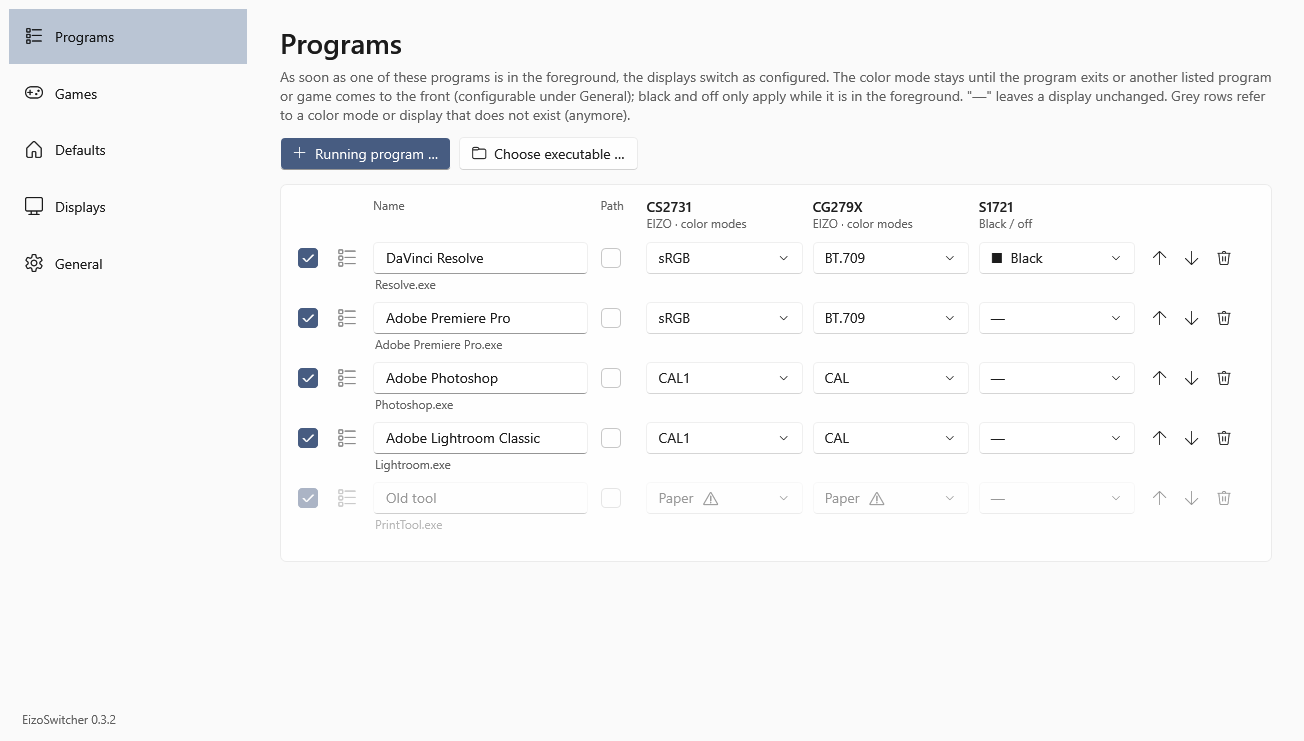
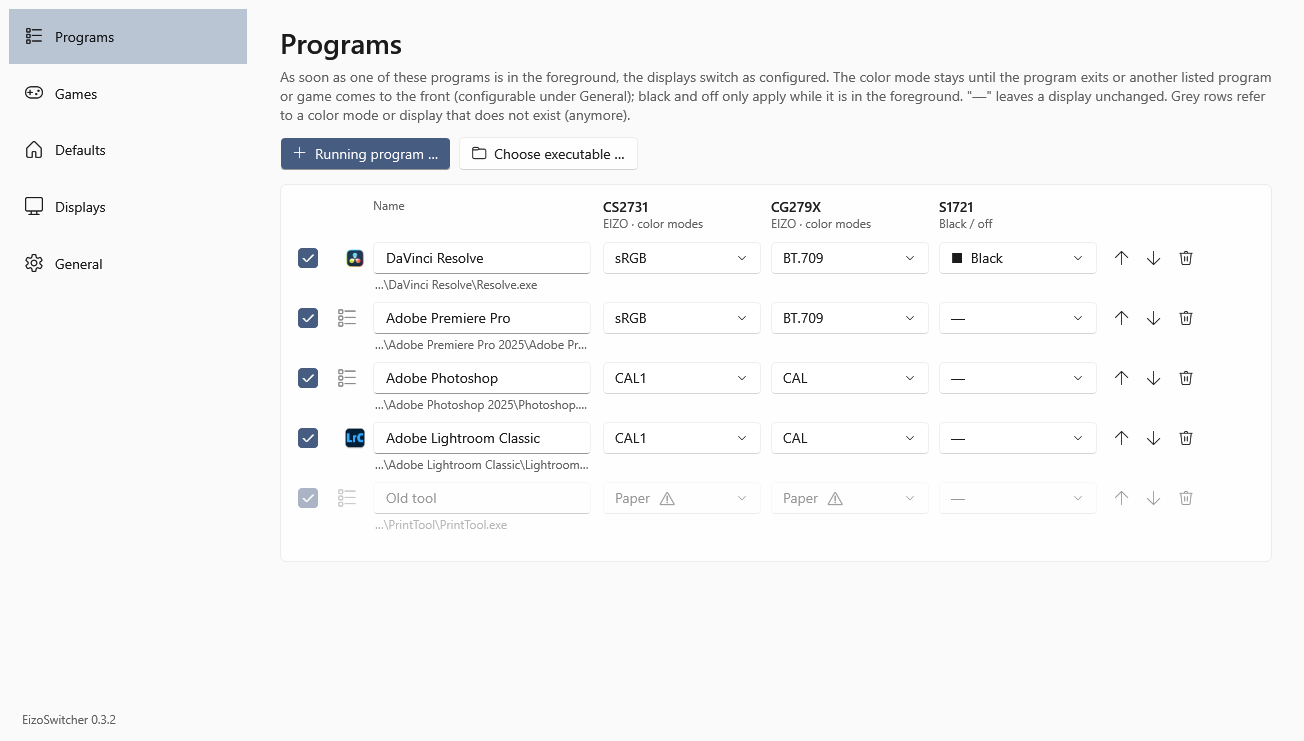
Rules always match the exact executable
The "Path" checkbox is gone: a rule now always belongs to exactly the
executable it was created for, so two versions of a program side by side
are simply two rules (adding the second one no longer jumps to the first).
The folder is shown under the rule name.

Matching by name remains for rules without a path, for processes whose
path cannot be read (elevated ones) and for rules whose program has moved,
e.g. after an update into a new versioned folder (Store apps) - the latter
only when no rule matches the path exactly.

diff --git a/src/EizoSwitcher/UI/SettingsWindow.cs b/src/EizoSwitcher/UI/SettingsWindow.cs
@@ -20,12 +20,11 @@ internal sealed class SettingsWindow : Window
         public required Border View;
         public required CheckBox Enabled;
         public required System.Windows.Controls.TextBox Name;
-        public required CheckBox MatchPath;
         public required Dictionary<string, ComboBox> Actions;
     }
 
     // name and display columns shrink down to their minimum before the table scrolls sideways
-    private const double NameWidth = 230, NameMin = 140, PathWidth = 46, ColWidth = 158, ColMin = 112, ColGap = 10;
+    private const double NameWidth = 230, NameMin = 140, ColWidth = 158, ColMin = 112, ColGap = 10;
 
     private readonly DisplayService displays_;
     private readonly GameDetector games_;
@@ -192,15 +191,12 @@ internal sealed class SettingsWindow : Window
         DefineColumns(header);
         void H(int col, UIElement e) { Grid.SetColumn(e, col); header.Children.Add(e); }
         H(2, Ui.Caption(L.T("Name", "Name"), false));
-        var pathHead = Ui.Caption(L.T("Pfad", "Path"), false);
-        pathHead.ToolTip = L.T("Nur auslösen, wenn das Programm aus genau diesem Ordner gestartet wurde", "Only trigger when the program runs from exactly this folder");
-        H(3, pathHead);
         for (int i = 0; i < cols_.Count; i++)
         {
             var head = new StackPanel { Opacity = cols_[i].Connected ? 1 : 0.5 };
             head.Children.Add(Ui.Strong(cols_[i].Name));
             head.Children.Add(Ui.Caption(ColSubtitle(cols_[i]), false));
-            H(4 + i, head);
+            H(3 + i, head);
         }
 
         rows_.Clear();
@@ -214,7 +210,7 @@ internal sealed class SettingsWindow : Window
         table.Children.Add(ruleTable_);
         var scroll = new ScrollViewer { Content = table, HorizontalScrollBarVisibility = ScrollBarVisibility.Auto, VerticalScrollBarVisibility = ScrollBarVisibility.Disabled };
         table.HorizontalAlignment = HorizontalAlignment.Left;
-        double fixedWidth = 16 + 40 + 36 + PathWidth + 110;
+        double fixedWidth = 16 + 40 + 36 + 110;
         scroll.SizeChanged += (_, e) => table.Width = Math.Clamp(e.NewSize.Width,
             fixedWidth + NameMin + cols_.Count * (ColMin + ColGap), fixedWidth + NameWidth + cols_.Count * (ColWidth + ColGap));
         var card = Ui.Card(scroll, new Thickness(8, 12, 8, 8));
@@ -242,7 +238,6 @@ internal sealed class SettingsWindow : Window
         g.ColumnDefinitions.Add(new ColumnDefinition { Width = new GridLength(40) });
         g.ColumnDefinitions.Add(new ColumnDefinition { Width = new GridLength(36) });
         g.ColumnDefinitions.Add(new ColumnDefinition { Width = new GridLength(NameWidth, GridUnitType.Star), MinWidth = NameMin, MaxWidth = NameWidth });
-        g.ColumnDefinitions.Add(new ColumnDefinition { Width = new GridLength(PathWidth) });
         foreach (var _ in cols_)
             g.ColumnDefinitions.Add(new ColumnDefinition { Width = new GridLength(ColWidth + ColGap, GridUnitType.Star), MinWidth = ColMin + ColGap, MaxWidth = ColWidth + ColGap });
         g.ColumnDefinitions.Add(new ColumnDefinition { Width = new GridLength(110) });
@@ -253,7 +248,7 @@ internal sealed class SettingsWindow : Window
         var grid = new Grid();
         DefineColumns(grid);
         grid.RowDefinitions.Add(new RowDefinition { Height = GridLength.Auto });
-        grid.RowDefinitions.Add(new RowDefinition { Height = GridLength.Auto }); // exe name under the name box
+        grid.RowDefinitions.Add(new RowDefinition { Height = GridLength.Auto }); // exe and folder under the name box
         void Put(int col, UIElement e) { Grid.SetColumn(e, col); grid.Children.Add(e); }
 
         var enabled = new CheckBox { IsChecked = rule.Enabled, VerticalAlignment = VerticalAlignment.Center, HorizontalAlignment = HorizontalAlignment.Left, ToolTip = L.T("Regel aktiv", "Rule enabled"), MinWidth = 0, Padding = new Thickness(0) };
@@ -264,27 +259,28 @@ internal sealed class SettingsWindow : Window
             : Dim(Ui.Icon(Icons.Apps, 20)));
 
         var name = new System.Windows.Controls.TextBox { Text = rule.Name, VerticalAlignment = VerticalAlignment.Center, Margin = new Thickness(0, 0, 12, 0), ToolTip = rule.ExePath ?? rule.ExeName };
-        var exe = Ui.Caption(rule.ExeName, false);
+        // the folder tells two versions of a program apart (each has its own rule)
+        string? folder = Path.GetDirectoryName(rule.ExePath);
+        // (the last folder is what differs, e.g. "Adobe Photoshop 2025"; full path in the tooltip)
+        var exe = Ui.Caption(string.IsNullOrEmpty(folder) ? rule.ExeName : $"…\\{Path.GetFileName(folder)}\\{rule.ExeName}", false);
         exe.Margin = new Thickness(2, 2, 12, 0);
         exe.TextTrimming = TextTrimming.CharacterEllipsis;
         exe.ToolTip = rule.ExePath ?? rule.ExeName;
         Put(2, name);
         Grid.SetRow(exe, 1);
         Put(2, exe);
-        var matchPath = new CheckBox { IsChecked = rule.MatchPath, IsEnabled = !string.IsNullOrEmpty(rule.ExePath), VerticalAlignment = VerticalAlignment.Center, ToolTip = rule.ExePath, MinWidth = 0, Padding = new Thickness(0) };
-        Put(3, matchPath);
 
         var actions = new Dictionary<string, ComboBox>();
-        var row = new RuleRow { Rule = rule, View = null!, Enabled = enabled, Name = name, MatchPath = matchPath, Actions = actions };
+        var row = new RuleRow { Rule = rule, View = null!, Enabled = enabled, Name = name, Actions = actions };
         for (int i = 0; i < cols_.Count; i++)
         {
             var box = Ui.Combo(Options(cols_[i], special: true), rule.Actions.GetValueOrDefault(cols_[i].Id) ?? "", ColWidth, () => { UpdateRowState(row); Changed(); });
             box.Width = double.NaN; // follows the column width
             box.Margin = new Thickness(0, 0, ColGap, 0);
             actions[cols_[i].Id] = box;
-            Put(4 + i, box);
+            Put(3 + i, box);
         }
-        Put(4 + cols_.Count, Ui.Row(0,
+        Put(3 + cols_.Count, Ui.Row(0,
             Ui.IconButton(Icons.Up, L.T("Nach oben (höhere Priorität)", "Move up (higher priority)"), () => Move(row, -1)),
             Ui.IconButton(Icons.Down, L.T("Nach unten", "Move down"), () => Move(row, 1)),
             Ui.IconButton(Icons.Delete, L.T("Entfernen", "Remove"), () => Remove(row))));
@@ -294,8 +290,6 @@ internal sealed class SettingsWindow : Window
         row.View.MouseLeave += (_, _) => row.View.Background = Brushes.Transparent;
         enabled.Checked += (_, _) => { UpdateRowState(row); Changed(); };
         enabled.Unchecked += (_, _) => { UpdateRowState(row); Changed(); };
-        matchPath.Checked += (_, _) => Changed();
-        matchPath.Unchecked += (_, _) => Changed();
         name.TextChanged += (_, _) => Changed();
         rows_.Add(row);
         ruleTable_.Children.Add(row.View);
@@ -354,7 +348,10 @@ internal sealed class SettingsWindow : Window
     private void AddProgram(string exeName, string? path, string? description)
     {
         exeName = exeName.EndsWith(".exe", StringComparison.OrdinalIgnoreCase) ? exeName : exeName + ".exe";
-        var existing = rows_.FirstOrDefault(r => ProcessNames.Normalize(r.Rule.ExeName) == ProcessNames.Normalize(exeName));
+        // same executable = same rule; another version of the program (other folder) gets its own
+        var existing = rows_.FirstOrDefault(r => string.IsNullOrEmpty(r.Rule.ExePath) || string.IsNullOrEmpty(path)
+            ? ProcessNames.Normalize(r.Rule.ExeName) == ProcessNames.Normalize(exeName)
+            : string.Equals(r.Rule.ExePath, path, StringComparison.OrdinalIgnoreCase));
         if (existing != null) { existing.Name.Focus(); return; }
         AddRow(new ProcessRule { Name = description ?? Path.GetFileNameWithoutExtension(exeName), ExeName = exeName, ExePath = path });
         UpdateEmptyState();
@@ -697,7 +694,6 @@ internal sealed class SettingsWindow : Window
                 var r = row.Rule;
                 r.Enabled = row.Enabled.IsChecked == true;
                 r.Name = row.Name.Text.Trim();
-                r.MatchPath = row.MatchPath.IsChecked == true;
                 foreach (var (id, box) in row.Actions)
                 {
                     string t = Ui.Token(box);

diff --git a/src/EizoSwitcher/Services/SwitchEngine.cs b/src/EizoSwitcher/Services/SwitchEngine.cs
@@ -122,14 +122,14 @@ public sealed class SwitchEngine : IDisposable
         if (fg != null) app_ = fg;
         else if (app_ != null && !ForegroundWatcher.IsRunning(app_.Pid)) app_ = null;
 
-        var rules = app_ == null ? [] : s.Rules.Where(r => r.Enabled && Matches(r, app_)).ToList();
+        var rules = app_ == null ? [] : RulesFor(s, app_);
         string? game = app_ != null && s.Games.Enabled ? Games.Detect(app_, s.Games) : null;
 
         // a program with its own rule (or a game) takes over; it keeps its color modes until it exits
         if (rules.Count > 0 || game != null) (owner_, ownerGame_) = (app_, game);
         else if (owner_ != null && (!s.KeepModesUntilExit || !ForegroundWatcher.IsRunning(owner_.Pid))) (owner_, ownerGame_) = (null, null);
         bool background = owner_ != null && owner_.Pid != app_?.Pid;
-        var ownerRules = background ? s.Rules.Where(r => r.Enabled && Matches(r, owner_!)).ToList() : [];
+        var ownerRules = background ? RulesFor(s, owner_!) : [];
 
         // displays we disconnected are no longer listed by Windows – keep evaluating them
         var all = displays_.Displays.ToList();
@@ -183,10 +183,19 @@ public sealed class SwitchEngine : IDisposable
         return ("", "");
     }
 
-    private static bool Matches(ProcessRule r, ForegroundApp app) =>
-        r.MatchPath && !string.IsNullOrEmpty(r.ExePath)
-            ? string.Equals(app.Path, r.ExePath, StringComparison.OrdinalIgnoreCase)
-            : r.ProcessKey == app.Key;
+    /// <summary>
+    /// Rules for a program, in priority order. A rule belongs to exactly the executable it was created for, so two
+    /// versions of a program are two rules. By name only if the process path cannot be read (elevated processes),
+    /// for rules without a path, and for rules whose program has moved (updates into a versioned folder, e.g. Store
+    /// apps) – the latter only if no rule matches the path exactly.
+    /// </summary>
+    private static List<ProcessRule> RulesFor(AppSettings s, ForegroundApp app)
+    {
+        var byName = s.Rules.Where(r => r.Enabled && r.ProcessKey == app.Key).ToList();
+        if (string.IsNullOrEmpty(app.Path)) return byName;
+        var exact = byName.Where(r => string.Equals(r.ExePath, app.Path, StringComparison.OrdinalIgnoreCase)).ToList();
+        return exact.Count > 0 ? exact : [.. byName.Where(r => string.IsNullOrEmpty(r.ExePath) || !File.Exists(r.ExePath))];
+    }
 
     /// <returns>false = temporary failure, retry on the next tick.</returns>
     private bool Apply(DisplayInfo d, string action, string reason, AppSettings s, ref bool offChanged)

diff --git a/src/EizoSwitcher/UI/Screenshots.cs b/src/EizoSwitcher/UI/Screenshots.cs
@@ -133,19 +133,19 @@ internal static class Screenshots
         string? Pick(DisplayInfo d, params string[] prefs) =>
             d.Eizo == null ? null : prefs.FirstOrDefault(p => d.Eizo.IndexOf(p) >= 0) ?? d.Eizo.Modes.FirstOrDefault();
 
-        ProcessRule Rule(string name, string exe, Func<DisplayInfo, string?> action)
+        ProcessRule Rule(string name, string path, Func<DisplayInfo, string?> action)
         {
-            var r = new ProcessRule { Name = name, ExeName = exe };
+            var r = new ProcessRule { Name = name, ExeName = Path.GetFileName(path), ExePath = path };
             foreach (var d in displays.Displays)
                 if (action(d) is { } a) r.Actions[d.Id] = a;
             return r;
         }
 
-        s.Rules.Add(Rule("DaVinci Resolve", "Resolve.exe", d => Pick(d, "BT.709", "sRGB") ?? (d.Primary ? null : DisplayAction.Black)));
-        s.Rules.Add(Rule("Adobe Premiere Pro", "Adobe Premiere Pro.exe", d => Pick(d, "BT.709", "sRGB")));
-        s.Rules.Add(Rule("Adobe Photoshop", "Photoshop.exe", d => Pick(d, "CAL", "CAL1")));
-        s.Rules.Add(Rule("Adobe Lightroom Classic", "Lightroom.exe", d => d.IsEizo ? Pick(d, "CAL", "CAL1") : null));
-        s.Rules.Add(Rule(L.T("Altes Werkzeug", "Old tool"), "PrintTool.exe", d => d.IsEizo ? "Paper" : null));
+        s.Rules.Add(Rule("DaVinci Resolve", @"C:\Program Files\Blackmagic Design\DaVinci Resolve\Resolve.exe", d => Pick(d, "BT.709", "sRGB") ?? (d.Primary ? null : DisplayAction.Black)));
+        s.Rules.Add(Rule("Adobe Premiere Pro", @"C:\Program Files\Adobe\Adobe Premiere Pro 2025\Adobe Premiere Pro.exe", d => Pick(d, "BT.709", "sRGB")));
+        s.Rules.Add(Rule("Adobe Photoshop", @"C:\Program Files\Adobe\Adobe Photoshop 2025\Photoshop.exe", d => Pick(d, "CAL", "CAL1")));
+        s.Rules.Add(Rule("Adobe Lightroom Classic", @"C:\Program Files\Adobe\Adobe Lightroom Classic\Lightroom.exe", d => d.IsEizo ? Pick(d, "CAL", "CAL1") : null));
+        s.Rules.Add(Rule(L.T("Altes Werkzeug", "Old tool"), @"C:\Tools\PrintTool\PrintTool.exe", d => d.IsEizo ? "Paper" : null));
         s.Games.Actions = displays.Displays.ToDictionary(d => d.Id, d => d.Primary ? Pick(d, "sRGB") ?? "" : DisplayAction.Off);
         foreach (var d in displays.Displays)
         {

diff --git a/src/EizoSwitcher/Services/AppSettings.cs b/src/EizoSwitcher/Services/AppSettings.cs
@@ -28,9 +28,8 @@ public sealed class ProcessRule
     public string Name { get; set; } = "";
     /// <summary>Executable file name, e.g. "Photoshop.exe".</summary>
     public string ExeName { get; set; } = "";
+    /// <summary>Full path; if known, only this executable matches (two versions of a program = two rules).</summary>
     public string? ExePath { get; set; }
-    /// <summary>Only match when the process runs from <see cref="ExePath"/>.</summary>
-    public bool MatchPath { get; set; }
     /// <summary>Display id -> action (see <see cref="DisplayAction"/>).</summary>
     public Dictionary<string, string> Actions { get; set; } = [];
 

diff --git a/README.md b/README.md
@@ -82,7 +82,7 @@ Click **＋ Running program …** and pick the program (start it first), or choo
 | **⏻ Turn off** | the display goes off – set up once per display under *Displays → Turn off → Set up …* |
 
 - A program switches the displays when it comes **to the foreground**. Switching to a program that is not in the list keeps its color mode until it exits (turn this off under *General* to get the defaults back right away). Black and off only apply while the program is in front, so a second screen comes back as soon as you click something else.
-- **Path** only triggers when the program runs from exactly that folder – handy for generic names like `launcher.exe`.
+- A rule belongs to exactly the executable you picked (its folder is shown under the name). Two versions of a program side by side – say Photoshop 2024 and 2025 – are simply two rules, and generic names like `launcher.exe` don't trigger for every program that happens to use them.
 - A **grey row** points to a color mode or display that doesn't exist (anymore), e.g. after renaming a mode on the monitor. Hover it to see why.
 
 ### 2. Games
